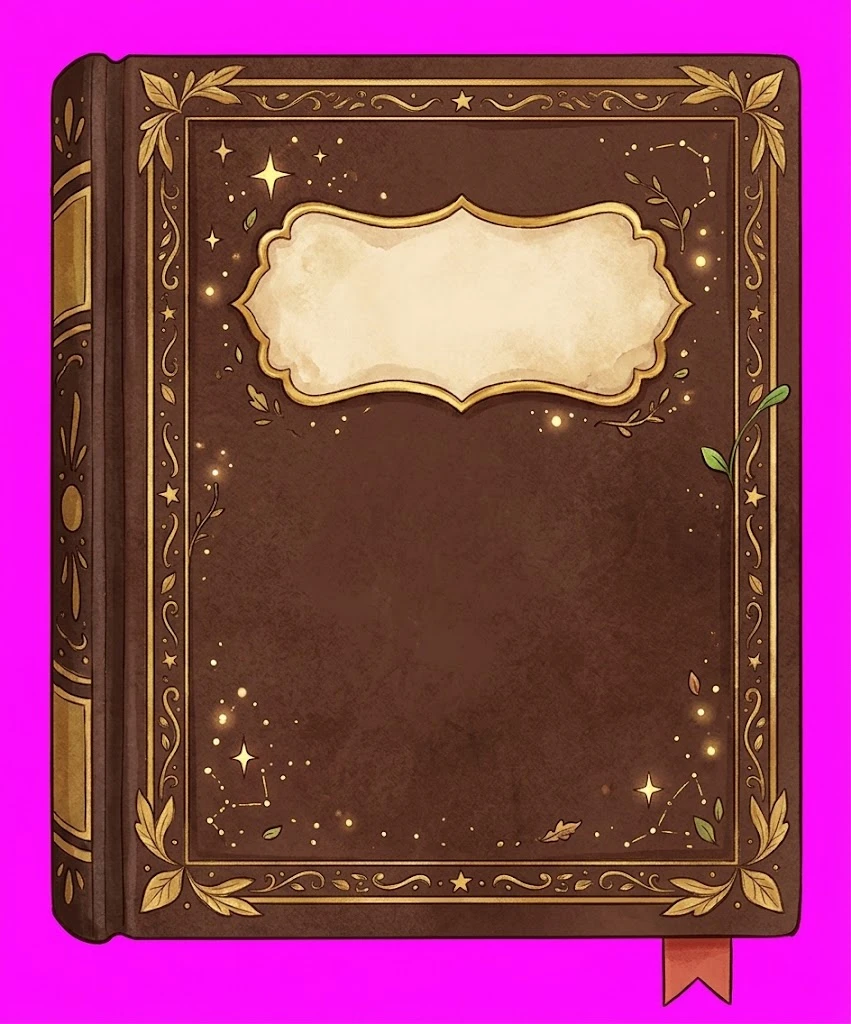
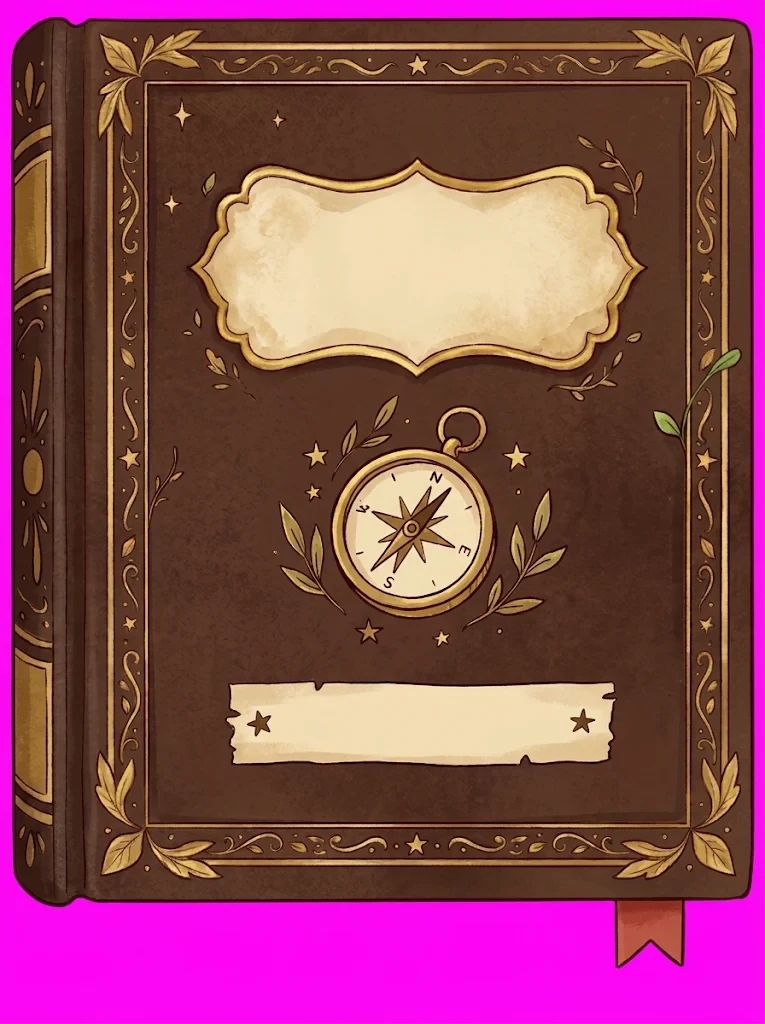
Album: la copertina nuova con la bussola (Mac e Windows)
La copertina disegnata da Gemini, ritagliata sul magenta: il titolo e il nome
sulla targa, il conto delle figurine sulla fascia di pergamena (in inchiostro
scuro), le figurine nuove sotto la fascia e «Tocca per aprirlo» sotto il
libro, con due frecce a mano (fuori dalla copertina che si apre).

diff --git a/Sources/FocusFriends/AlbumWindow.swift b/Sources/FocusFriends/AlbumWindow.swift
@@ -325,22 +325,52 @@ final class AlbumView: NSView {
             NSBezierPath(roundedRect: Self.closedShadow(for: rect), xRadius: 12, yRadius: 12).fill()
         }
         image.draw(in: rect, from: .zero, operation: .sourceOver, fraction: 1, respectFlipped: true, hints: [.interpolation: NSImageInterpolation.high])
-        // il titolo sulla targa (che nell'immagine è vuota), e il resto sulla pelle
-        let centerX = rect.minX + rect.width * 0.547
+        // il titolo sulla targa e il conto sulla fascia di pergamena (nell'immagine sono vuote), come nella copertina disegnata da Gemini
+        let plateX = rect.minX + rect.width * 0.533, bandX = rect.minX + rect.width * 0.551
         let ink = NSColor(calibratedRed: 0.30, green: 0.18, blue: 0.09, alpha: 1)
-        text("L'album", in: NSRect(x: centerX - 140, y: rect.minY + rect.height * 0.19 - 18, width: 280, height: 80), font: Paper.albumFont(58), color: ink)
+        text("L'album", in: NSRect(x: plateX - 140, y: rect.minY + rect.height * 0.19 - 18, width: 280, height: 80), font: Paper.albumFont(58), color: ink)
         let owner = profile.name.map { "di \($0)" } ?? "delle figurine"
-        text(owner, in: NSRect(x: centerX - 140, y: rect.minY + rect.height * 0.285 - 4, width: 280, height: 42), font: Paper.albumFont(29), color: ink.withAlphaComponent(0.8))
+        text(owner, in: NSRect(x: plateX - 140, y: rect.minY + rect.height * 0.285 - 4, width: 280, height: 42), font: Paper.albumFont(29), color: ink.withAlphaComponent(0.8))
         let count = "\(garden.foundCount) su \(GardenCatalog.items.count) figurine"
-        text(count, in: NSRect(x: centerX - 140, y: rect.minY + rect.height * 0.45, width: 280, height: 22),
-             font: NSFont.systemFont(ofSize: 15, weight: .semibold), color: Self.goldInk)
+        text(count, in: NSRect(x: bandX - 150, y: rect.minY + rect.height * 0.741 - 12, width: 300, height: 24),
+             font: NSFont.systemFont(ofSize: 17, weight: .semibold), color: ink)
         if !garden.unseen.isEmpty {
             let news = garden.unseen.count == 1 ? "C'è una figurina nuova!" : "Ci sono \(garden.unseen.count) figurine nuove!"
-            text(news, in: NSRect(x: centerX - 140, y: rect.minY + rect.height * 0.515, width: 280, height: 22),
+            text(news, in: NSRect(x: bandX - 150, y: rect.minY + rect.height * 0.80, width: 300, height: 22),
                  font: NSFont.systemFont(ofSize: 14, weight: .semibold), color: NSColor(calibratedRed: 1, green: 0.93, blue: 0.75, alpha: 1))
         }
-        text("Tocca per aprirlo", in: NSRect(x: centerX - 150, y: rect.minY + rect.height * 0.74, width: 300, height: 18),
-             font: NSFont.systemFont(ofSize: 12.5, weight: .medium), color: Self.goldInk.withAlphaComponent(0.85))
+        // sotto il libro, con due frecce a mano (non fa parte della copertina che si apre)
+        if !capturing { drawOpenHint(centerX: rect.minX + rect.width * 0.52, y: rect.maxY + 14, ink: deskInk) }
+    }
+
+    /// «Tocca per aprirlo», sotto il libro chiuso, con un ghirigoro a sinistra e una freccia che sale verso il libro a destra.
+    private func drawOpenHint(centerX: CGFloat, y: CGFloat, ink: NSColor) {
+        let font = NSFont.systemFont(ofSize: 15, weight: .medium)
+        let label = "Tocca per aprirlo"
+        let width = ceil((label as NSString).size(withAttributes: [.font: font]).width)
+        text(label, in: NSRect(x: centerX - width / 2 - 4, y: y, width: width + 8, height: 20), font: font, color: ink)
+        ink.withAlphaComponent(0.85).setStroke()
+        let left = centerX - width / 2 - 14, right = centerX + width / 2 + 12, mid = y + 10
+        // a sinistra: due tratti ondulati, come segni di movimento
+        for dy: CGFloat in [-4, 4] {
+            let wave = NSBezierPath()
+            wave.move(to: NSPoint(x: left - 26, y: mid + dy))
+            wave.curve(to: NSPoint(x: left, y: mid + dy), controlPoint1: NSPoint(x: left - 18, y: mid + dy - 5), controlPoint2: NSPoint(x: left - 8, y: mid + dy + 5))
+            wave.lineWidth = 1.4
+            wave.lineCapStyle = .round
+            wave.stroke()
+        }
+        // a destra: una freccia che sale verso il libro
+        let arrow = NSBezierPath()
+        arrow.move(to: NSPoint(x: right, y: mid + 4))
+        arrow.curve(to: NSPoint(x: right + 34, y: mid - 20), controlPoint1: NSPoint(x: right + 20, y: mid + 4), controlPoint2: NSPoint(x: right + 32, y: mid - 6))
+        arrow.move(to: NSPoint(x: right + 27, y: mid - 15))
+        arrow.line(to: NSPoint(x: right + 34, y: mid - 20))
+        arrow.line(to: NSPoint(x: right + 36, y: mid - 11))
+        arrow.lineWidth = 1.4
+        arrow.lineCapStyle = .round
+        arrow.lineJoinStyle = .round
+        arrow.stroke()
     }
 
     private func drawHandMadeCover() {

diff --git a/windows/src/renderer/album/book.ts b/windows/src/renderer/album/book.ts
@@ -32,7 +32,6 @@ export type Mode = "cover" | "opening" | "open";
 export interface Rect { x: number; y: number; w: number; h: number }
 
 const INK = "rgb(41, 26, 15)", INK_LIGHT = "rgb(102, 77, 51)";
-const GOLD_INK = "rgb(230, 186, 87)";
 const LEATHER_DARK = [74, 41, 20] as const;
 const PAPER_LIGHT = "rgb(255, 249, 227)";
 const UI = 'system-ui, "Segoe UI", sans-serif';
@@ -168,18 +167,47 @@ function drawCover(ctx: CanvasRenderingContext2D, data: AlbumData, state: BookSt
     ctx.fill();
   }
   ctx.drawImage(image, r.x, r.y, r.w, r.h);
-  // il titolo sulla targa (che nell'immagine è vuota), e il resto sulla pelle
-  const cx = r.x + r.w * 0.547;
+  // il titolo sulla targa e il conto sulla fascia di pergamena (nell'immagine sono vuote), come nella copertina disegnata da Gemini
+  const plateX = r.x + r.w * 0.533, bandX = r.x + r.w * 0.551;
   const ink = [77, 46, 23] as const;
-  text(ctx, "L'album", { x: cx - 140, y: r.y + r.h * 0.19 - 18, w: 280, h: 80 }, `58px ${TITLE}`, rgba(ink, 1));
-  text(ctx, data.owner === null ? "delle figurine" : `di ${data.owner}`, { x: cx - 140, y: r.y + r.h * 0.285 - 4, w: 280, h: 42 }, `29px ${TITLE}`, rgba(ink, 0.8));
+  text(ctx, "L'album", { x: plateX - 140, y: r.y + r.h * 0.19 - 18, w: 280, h: 80 }, `58px ${TITLE}`, rgba(ink, 1));
+  text(ctx, data.owner === null ? "delle figurine" : `di ${data.owner}`, { x: plateX - 140, y: r.y + r.h * 0.285 - 4, w: 280, h: 42 }, `29px ${TITLE}`, rgba(ink, 0.8));
   text(ctx, `${data.has.length} su ${SPREADS.flatMap((s) => [...s.left.items, ...(s.right?.items ?? [])]).length} figurine`,
-    { x: cx - 140, y: r.y + r.h * 0.45, w: 280, h: 22 }, `600 15px ${UI}`, GOLD_INK);
+    { x: bandX - 150, y: r.y + r.h * 0.741 - 12, w: 300, h: 24 }, `600 17px ${UI}`, rgba(ink, 1));
   if (data.unseen.length > 0) {
     text(ctx, data.unseen.length === 1 ? "C'è una figurina nuova!" : `Ci sono ${data.unseen.length} figurine nuove!`,
-      { x: cx - 140, y: r.y + r.h * 0.515, w: 280, h: 22 }, `600 14px ${UI}`, "rgb(255, 237, 191)");
+      { x: bandX - 150, y: r.y + r.h * 0.8, w: 300, h: 22 }, `600 14px ${UI}`, "rgb(255, 237, 191)");
   }
-  text(ctx, "Tocca per aprirlo", { x: cx - 150, y: r.y + r.h * 0.74, w: 300, h: 18 }, `500 12.5px ${UI}`, "rgba(230, 186, 87, 0.85)");
+  // sotto il libro, con due frecce a mano (non fa parte della copertina che si apre)
+  if (!state.capturing) drawOpenHint(ctx, r.x + r.w * 0.52, r.y + r.h + 14, rgba(LEATHER_DARK, 1));
+}
+
+/** «Tocca per aprirlo», sotto il libro chiuso, con un ghirigoro a sinistra e una freccia che sale verso il libro a destra (AlbumView.drawOpenHint). */
+function drawOpenHint(ctx: CanvasRenderingContext2D, cx: number, y: number, ink: string): void {
+  const font = `500 15px ${UI}`;
+  const label = "Tocca per aprirlo";
+  ctx.font = font;
+  const width = Math.ceil(ctx.measureText(label).width);
+  text(ctx, label, { x: cx - width / 2 - 4, y, w: width + 8, h: 20 }, font, ink);
+  const left = cx - width / 2 - 14, right = cx + width / 2 + 12, mid = y + 10;
+  ctx.save();
+  ctx.strokeStyle = ink;
+  ctx.globalAlpha = 0.85;
+  ctx.lineWidth = 1.4;
+  ctx.lineCap = "round";
+  ctx.lineJoin = "round";
+  ctx.beginPath();
+  for (const dy of [-4, 4]) {
+    ctx.moveTo(left - 26, mid + dy);
+    ctx.bezierCurveTo(left - 18, mid + dy - 5, left - 8, mid + dy + 5, left, mid + dy);
+  }
+  ctx.moveTo(right, mid + 4);
+  ctx.bezierCurveTo(right + 20, mid + 4, right + 32, mid - 6, right + 34, mid - 20);
+  ctx.moveTo(right + 27, mid - 15);
+  ctx.lineTo(right + 34, mid - 20);
+  ctx.lineTo(right + 36, mid - 11);
+  ctx.stroke();
+  ctx.restore();
 }
 
 function placing(item: GardenItem, data: AlbumData): StickerLook["placing"] {

diff --git a/windows/NOTE_DI_RILASCIO.md b/windows/NOTE_DI_RILASCIO.md
@@ -31,6 +31,7 @@ per ultima, a 200 focus pieni.
   di quello che va bene; per un giorno solo dicono quale materia è andata bene. Ogni periodo mostra le ore di ogni materia, una riga ciascuna con la sua barra.
 - **Più musica**: i brani inclusi passano da cinque a undici, sempre di HoliznaCC0 in pubblico dominio, e ogni focus parte da un brano diverso,
   né l'ultimo ascoltato né quello del focus prima, anche dopo aver riaperto l'app.
+- **La copertina dell'album** è nuova: la bussola fra gli allori, il tuo nome sulla targa e il conto delle figurine su una fascia di pergamena.
 - **Le frasi**: trentasei riscritte, più semplici e meno ripetute fra un compagno e l'altro.
 - **Gli avatar** nel cerchio si vedono per intero, non più solo la testa da vicino, e la scheda di benvenuto si allarga per i sei compagni.
 
